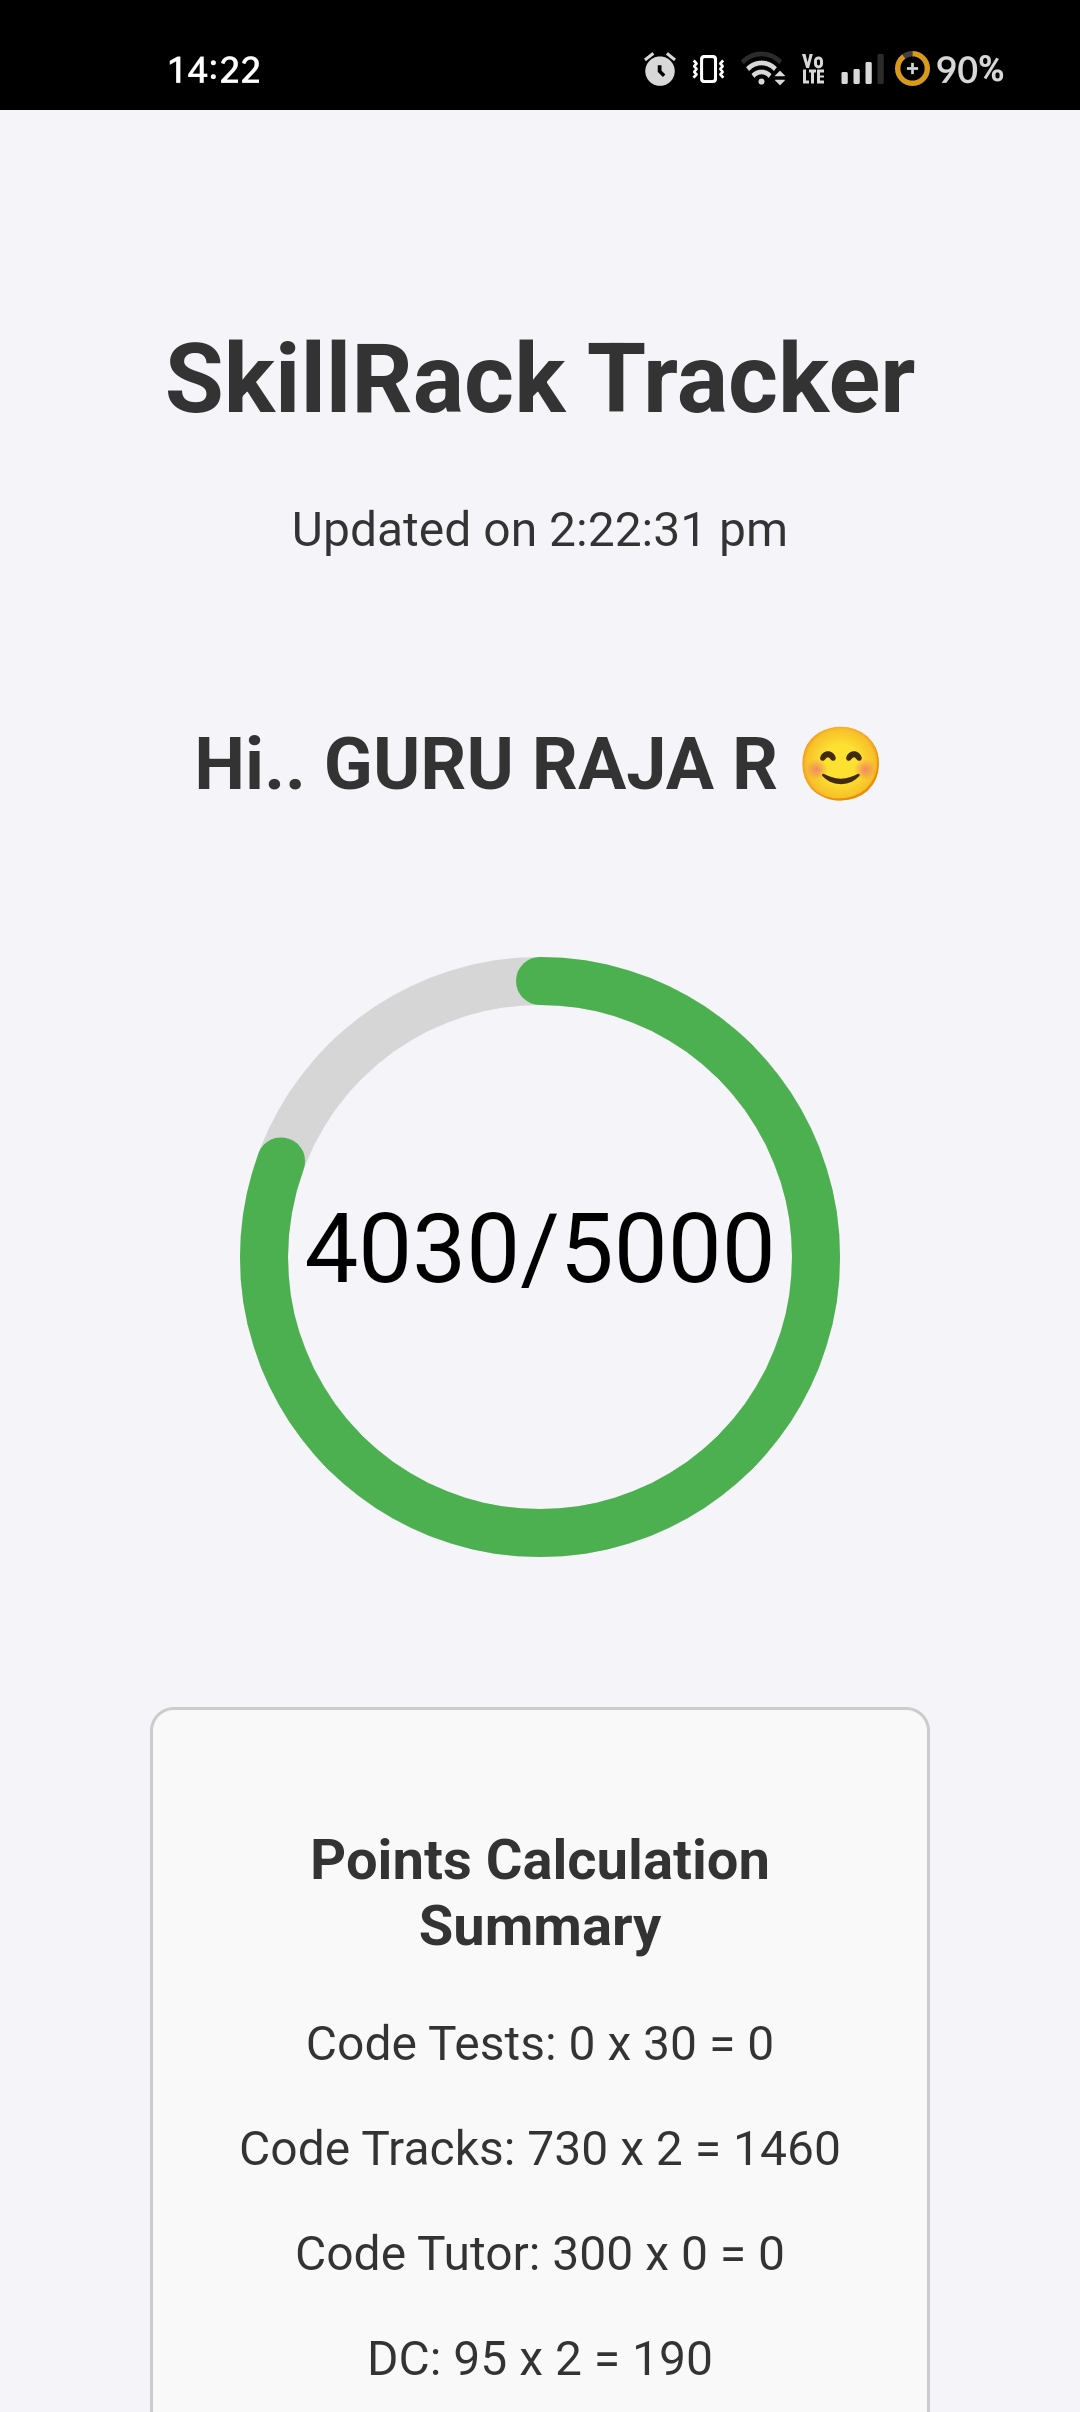
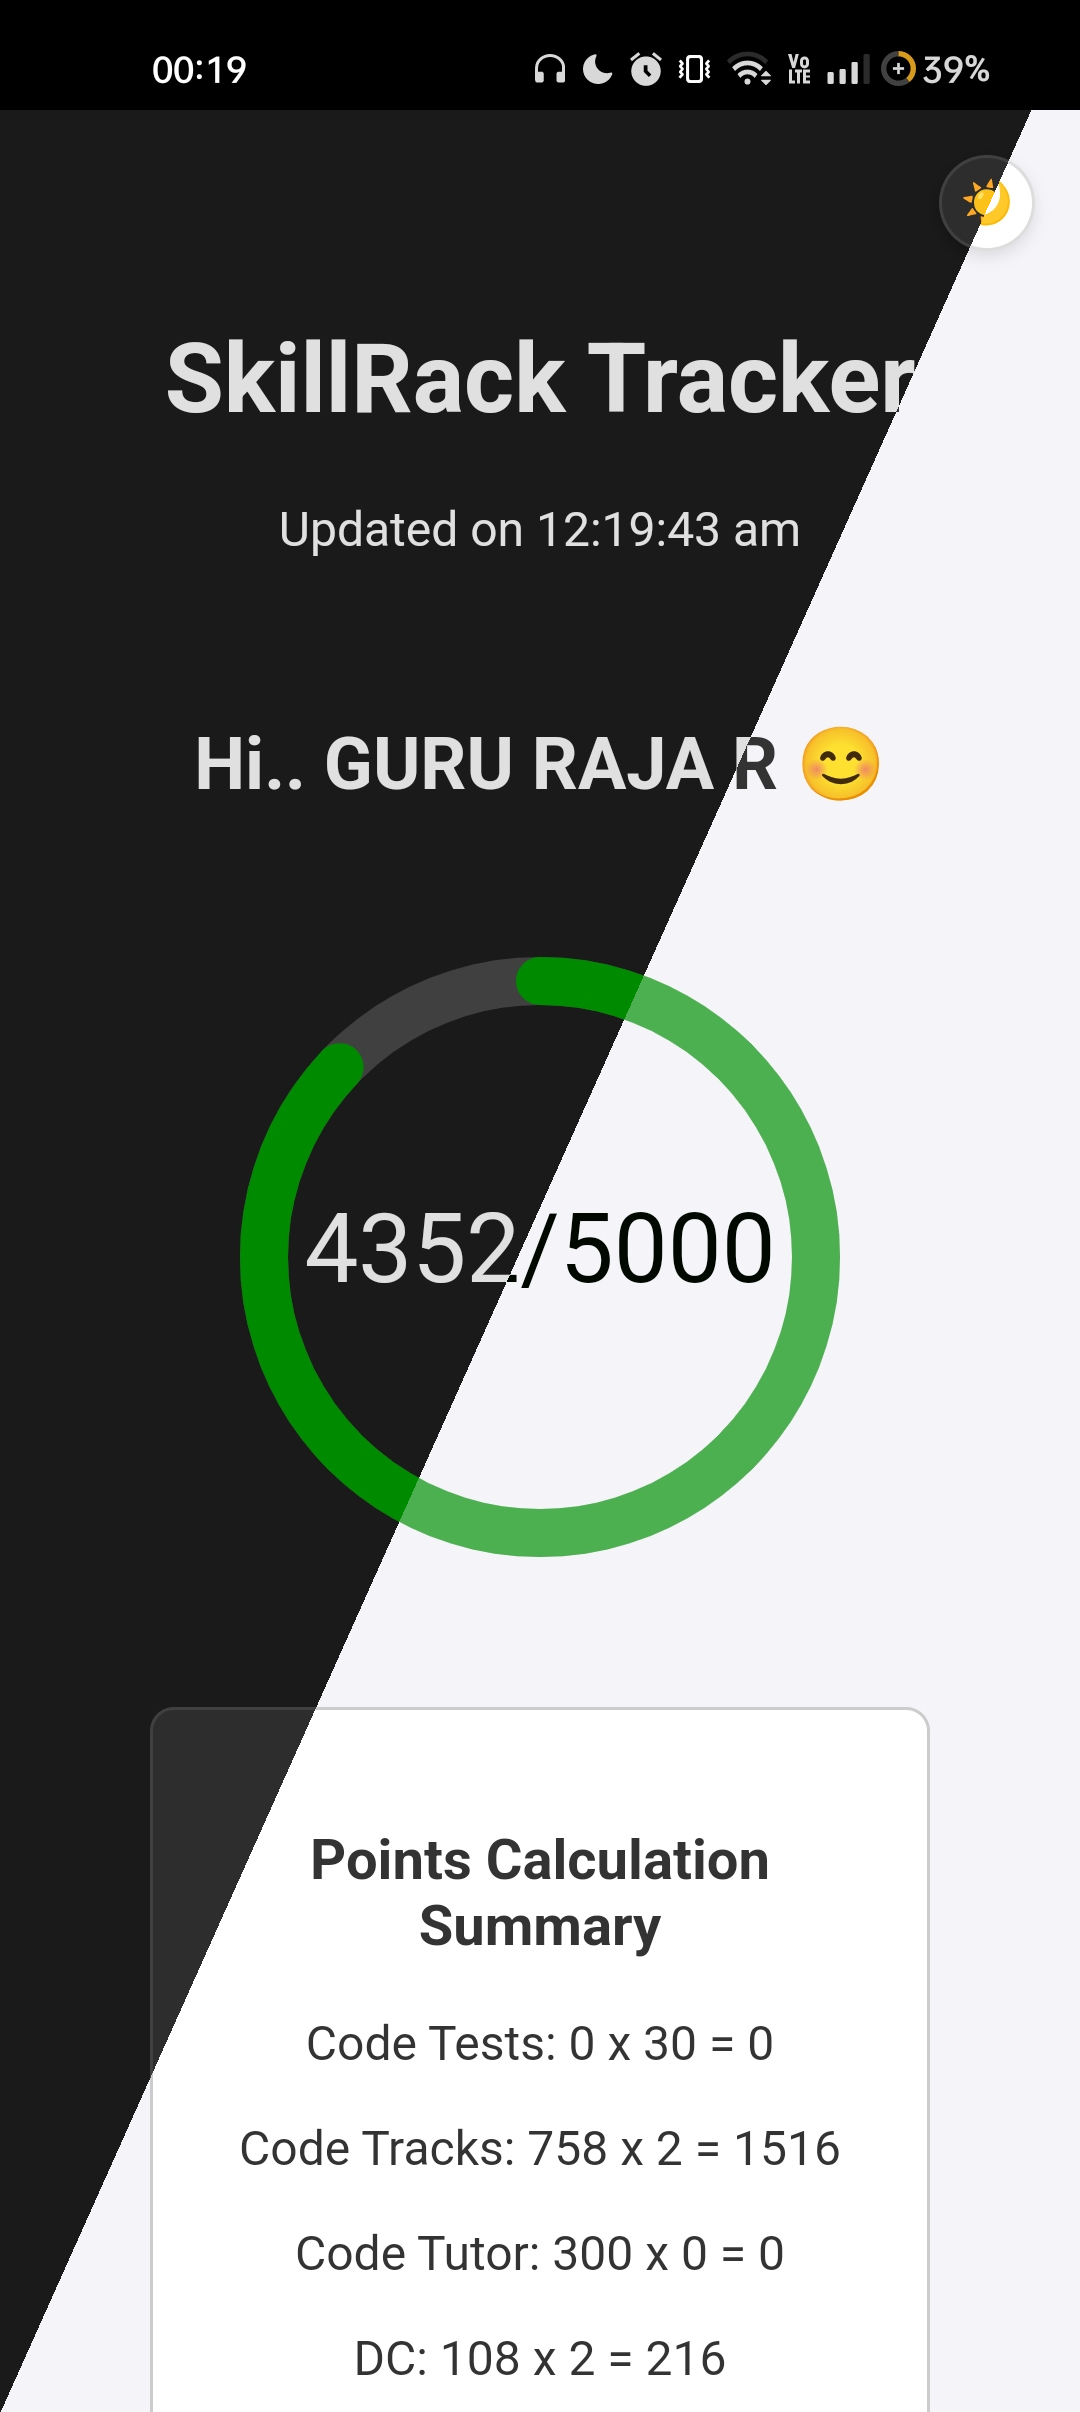
update

diff --git a/README.md b/README.md
@@ -10,6 +10,7 @@ Track and calculate your SkillRack points effortlessly with this powerful Progre
 - Calculates points based on the user's activities.
 - Displays points with a circular progress bar.
 - Schedule Planning
+- Dark mode
 - Public API ⚡
 
 ## Download
@@ -85,15 +86,15 @@ https://skillrack.gururaja.in/api/points
       "year": "2026",
       "college": "Thiagarajar College of Engineering (TCE), Madurai",
       "codeTutor": 300,
-      "codeTrack": 730,
+      "codeTrack": 758,
       "codeTest": 0,
-      "dt": 119,
-      "dc": 95,
-      "points": 4030,
+      "dt": 131,
+      "dc": 108,
+      "points": 4352,
       "requiredPoints": 5000,
-      "percentage": 80.60000000000001,
-      "lastFetched": "2:36:00 pm",
-      "url": "https://www.skillrack.com/faces/resume.xhtml?id=<resumeId>&key=<resumeKey>"
+      "percentage": 87.03999999999999,
+      "lastFetched": "12:48:36 am",
+      "url": "https://www.skillrack.com:443/faces/resume.xhtml?id=<resumeId>&key=<resumeKey>"
     }
     ```
 
@@ -111,7 +112,7 @@ https://skillrack.gururaja.in/api/points
 
   Example:
   ```
-  https://skillrack.gururaja.in/api/points/refresh?url=https://www.skillrack.com/faces/resume.xhtml?id=<resumeId>%26key=<resumeKey>
+  https://skillrack.gururaja.in/api/points/refresh?url=https://www.skillrack.com:443/faces/resume.xhtml?id=<resumeId>%26key=<resumeKey>
   ```
 
 - **Response:**
@@ -124,15 +125,15 @@ https://skillrack.gururaja.in/api/points
       "year": "2026",
       "college": "Thiagarajar College of Engineering (TCE), Madurai",
       "codeTutor": 300,
-      "codeTrack": 730,
+      "codeTrack": 758,
       "codeTest": 0,
-      "dt": 119,
-      "dc": 95,
-      "points": 4030,
+      "dt": 131,
+      "dc": 108,
+      "points": 4352,
       "requiredPoints": 5000,
-      "percentage": 80.60000000000001,
-      "lastFetched": "2:36:00 pm",
-      "url": "https://www.skillrack.com/faces/resume.xhtml?id=<resumeId>&key=<resumeKey>"
+      "percentage": 87.03999999999999,
+      "lastFetched": "12:48:36 am",
+      "url": "https://www.skillrack.com:443/faces/resume.xhtml?id=<resumeId>&key=<resumeKey>"
     }
     ```
 
@@ -153,7 +154,7 @@ https://skillrack.gururaja.in/api/points
    To refresh the points for a user, send a GET request to the `/refresh` endpoint with the user's SkillRack profile URL as a query parameter.
 
    ```bash
-   curl -X GET "https://skillrack.gururaja.in/api/points/refresh?url=https://www.skillrack.com/faces/resume.xhtml?id=<resumeId>%26key=<resumeKey>"
+   curl -X GET "https://skillrack.gururaja.in/api/points/refresh?url=https://www.skillrack.com:443/faces/resume.xhtml?id=<resumeId>%26key=<resumeKey>"
    ```
 
 ## Getting Started
